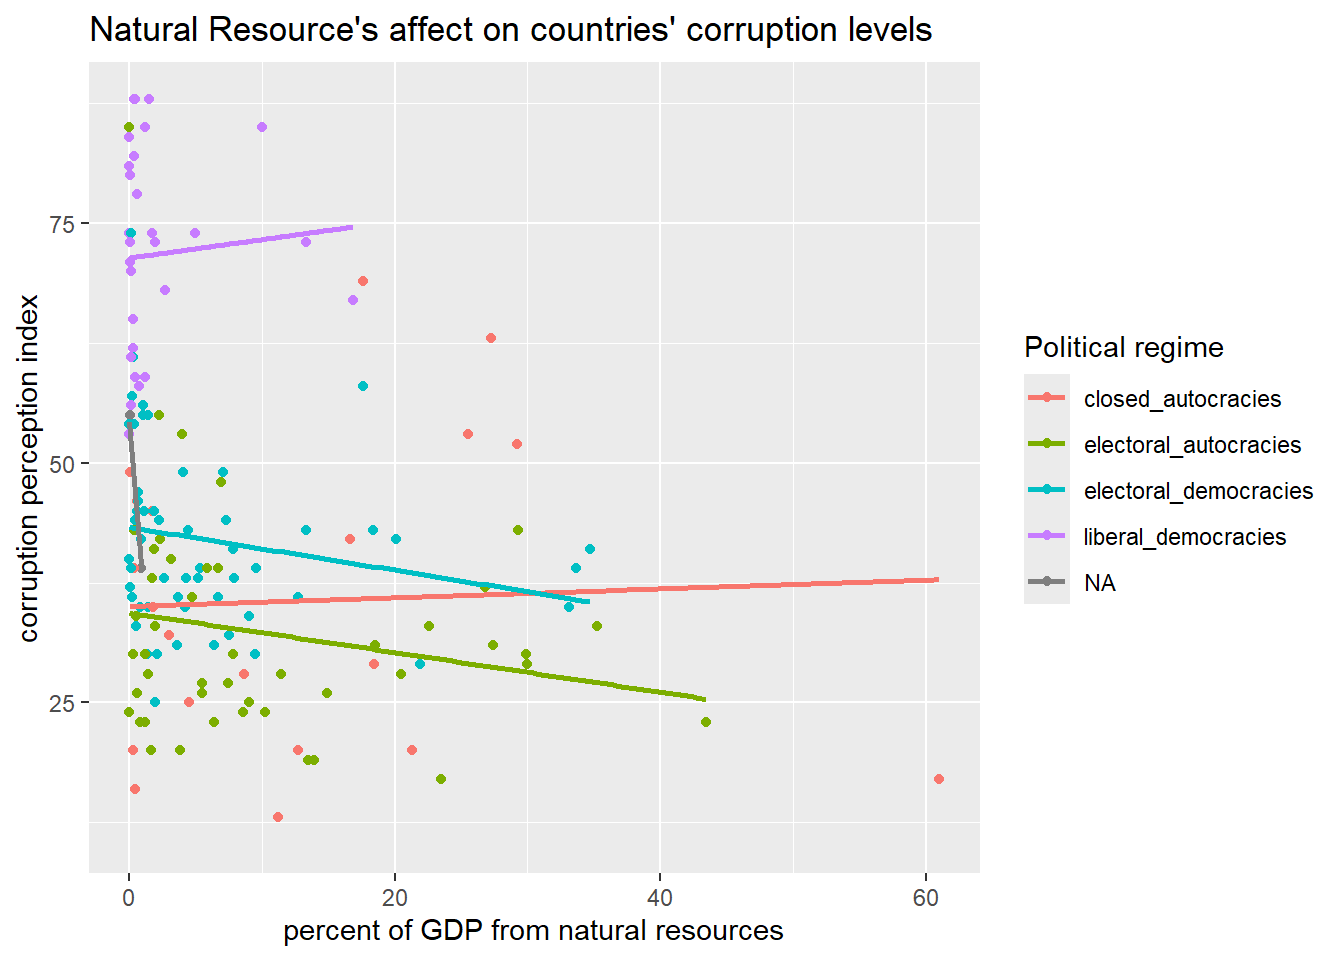
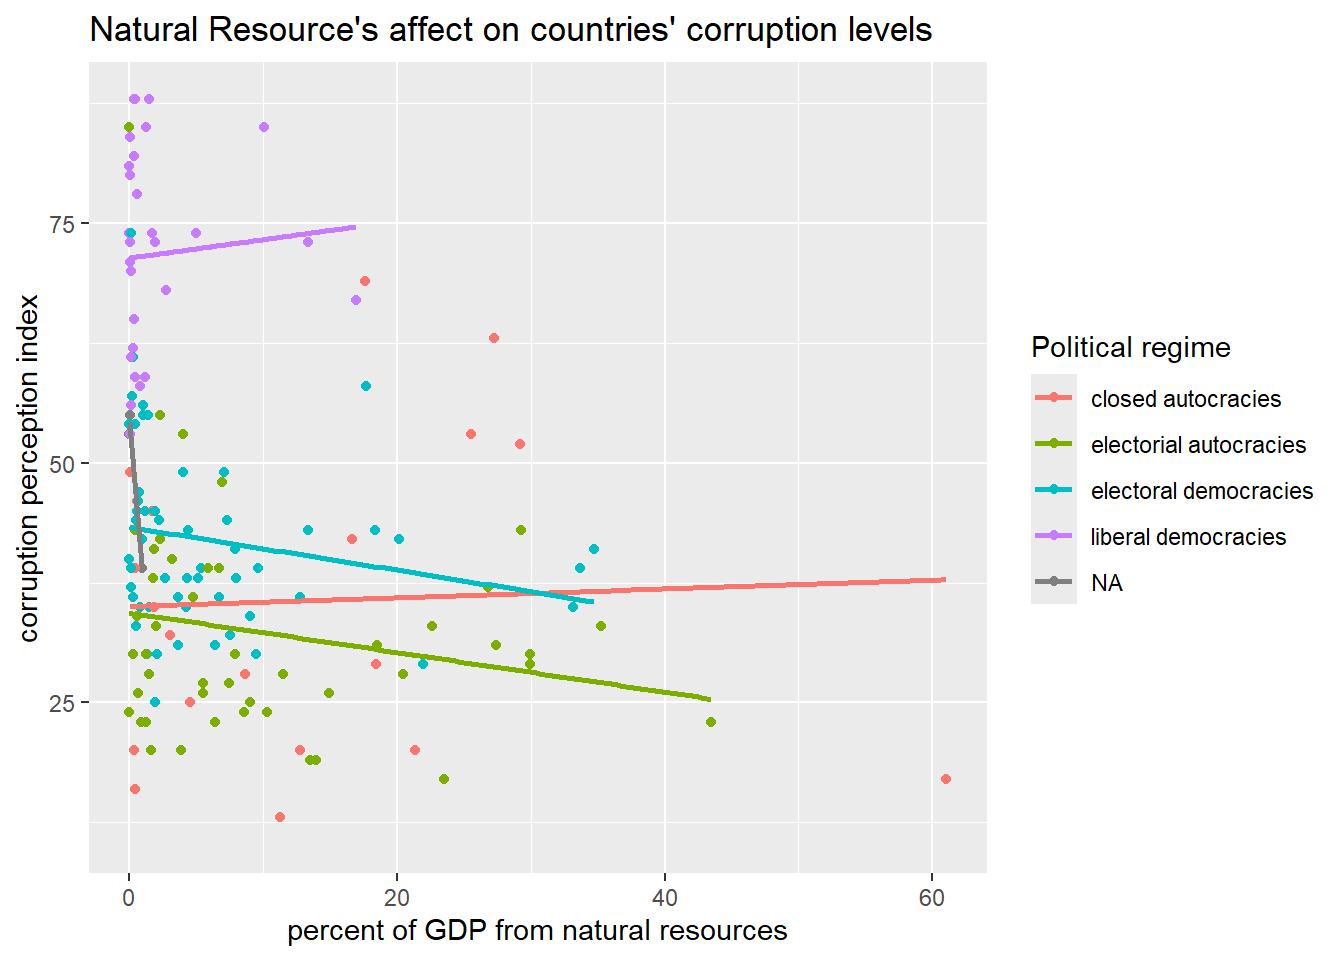
additional resids

diff --git a/natural_resource_conflict.html b/natural_resource_conflict.html
@@ -392,13 +392,14 @@ rents percent of gdp</td>
 <span id="cb10-7"><a href="#cb10-7" aria-hidden="true" tabindex="-1"></a>  <span class="fu">theme_grey</span>() <span class="sc">+</span></span>
 <span id="cb10-8"><a href="#cb10-8" aria-hidden="true" tabindex="-1"></a>  <span class="fu">geom_smooth</span>(<span class="at">formula =</span> y <span class="sc">~</span> x,</span>
 <span id="cb10-9"><a href="#cb10-9" aria-hidden="true" tabindex="-1"></a>              <span class="at">se =</span> <span class="cn">FALSE</span>,</span>
-<span id="cb10-10"><a href="#cb10-10" aria-hidden="true" tabindex="-1"></a>              <span class="at">method =</span> lm)</span>
-<span id="cb10-11"><a href="#cb10-11" aria-hidden="true" tabindex="-1"></a></span>
-<span id="cb10-12"><a href="#cb10-12" aria-hidden="true" tabindex="-1"></a><span class="fu">print</span>(regime_plot)</span>
-<span id="cb10-13"><a href="#cb10-13" aria-hidden="true" tabindex="-1"></a><span class="do">## Warning: Removed 25 rows containing non-finite outside the scale range</span></span>
-<span id="cb10-14"><a href="#cb10-14" aria-hidden="true" tabindex="-1"></a><span class="do">## (`stat_smooth()`).</span></span>
-<span id="cb10-15"><a href="#cb10-15" aria-hidden="true" tabindex="-1"></a><span class="do">## Warning: Removed 25 rows containing missing values or values outside the scale range</span></span>
-<span id="cb10-16"><a href="#cb10-16" aria-hidden="true" tabindex="-1"></a><span class="do">## (`geom_point()`).</span></span></code><button title="Copy to Clipboard" class="code-copy-button"><i class="bi"></i></button></pre></div>
+<span id="cb10-10"><a href="#cb10-10" aria-hidden="true" tabindex="-1"></a>              <span class="at">method =</span> lm) <span class="sc">+</span></span>
+<span id="cb10-11"><a href="#cb10-11" aria-hidden="true" tabindex="-1"></a>  <span class="fu">scale_color_hue</span>(<span class="at">labels =</span> <span class="fu">c</span>(<span class="st">"closed autocracies"</span>, <span class="st">"electorial autocracies"</span>, <span class="st">"electoral democracies"</span>, <span class="st">"liberal democracies"</span>))</span>
+<span id="cb10-12"><a href="#cb10-12" aria-hidden="true" tabindex="-1"></a></span>
+<span id="cb10-13"><a href="#cb10-13" aria-hidden="true" tabindex="-1"></a><span class="fu">print</span>(regime_plot)</span>
+<span id="cb10-14"><a href="#cb10-14" aria-hidden="true" tabindex="-1"></a><span class="do">## Warning: Removed 25 rows containing non-finite outside the scale range</span></span>
+<span id="cb10-15"><a href="#cb10-15" aria-hidden="true" tabindex="-1"></a><span class="do">## (`stat_smooth()`).</span></span>
+<span id="cb10-16"><a href="#cb10-16" aria-hidden="true" tabindex="-1"></a><span class="do">## Warning: Removed 25 rows containing missing values or values outside the scale range</span></span>
+<span id="cb10-17"><a href="#cb10-17" aria-hidden="true" tabindex="-1"></a><span class="do">## (`geom_point()`).</span></span></code><button title="Copy to Clipboard" class="code-copy-button"><i class="bi"></i></button></pre></div>
 </details>
 <div class="cell-output-display">
 <div>
@@ -515,7 +516,45 @@ political regime<br>
 <p>Our results are overall inconclusive. Our first linear model just looked at the percent of GDP from natural resources. There was no an obvious correlation from just looking at the data points on the graph, but our line of best fit revealed a negative slope, revealing that as the percent of GDP goes up, the corruption also goes up (a lower index number = more corruption). Although these results were statistically significant, the adjusted R squared value revealed that it only explained about nine percent of the corruption levels in countries around the world.</p>
 <p>My solution to the low R squared value was to add another variable, as it was quite likely we had omitted variable bias. I decided to add political regime type as our additional variable. I logically assumed that the regime type would have differing affects on the relationship. When I added in political regimes however, I saw that my results were no longer statistically significant.</p>
 <p>If I had more time I would have continued exploring more variables. Developed versus developing country, overall GDP amount, and economic systems would all be interesting to analyze in relation to corruption and natural resources. I am also skeptical that a linear model is truly the correct model to be using in this situation, as corruption is very complex and probably not a completely linear issue.</p>
-<p>https://www.sscnet.ucla.edu/polisci/faculty/ross/papers/working/Ross%20-%20Politics%20of%20the%20resource%20curse.pdf?form=MG0AV3</p>
+<p>Full acknowledgements:</p>
+<table class="caption-top table">
+<colgroup>
+<col style="width: 12%">
+<col style="width: 87%">
+</colgroup>
+<thead>
+<tr class="header">
+<th>Use:</th>
+<th>Citation:</th>
+</tr>
+</thead>
+<tbody>
+<tr class="odd">
+<td>Resource curse information</td>
+<td>Ross, M. L. (2013). The Politics of the Resource Curse: A Review. SSRN Electronic Journal. https://doi.org/10.2139/ssrn.2342668</td>
+</tr>
+<tr class="even">
+<td>Natural resources data</td>
+<td>World Development Indicators. The World Bank. (2015). Worldbank.org. https://wdi.worldbank.org/table/3.14#</td>
+</tr>
+<tr class="odd">
+<td>Corruption index data</td>
+<td>Transparency International. (2021). 2021 Corruptions Perceptions Index. Transparency.org. https://www.transparency.org/en/cpi/2021.</td>
+</tr>
+<tr class="even">
+<td>Political regime data</td>
+<td>Political regime. (n.d.). Our World in Data. https://ourworldindata.org/grapher/political-regime?time=2021</td>
+</tr>
+<tr class="odd">
+<td>Political regime metadata</td>
+<td>Herre, B. (2021, December 2). The “Regimes of the World” data: how do researchers identify which countries are democracies? Our World in Data. https://ourworldindata.org/regimes-of-the-world-data</td>
+</tr>
+<tr class="even">
+<td>Reference course materials</td>
+<td>Max Czapanskiy. EDS 222 Statistics for Environmental Data Science graduate course at the Bren School of Environmental Science and Management at UCSB</td>
+</tr>
+</tbody>
+</table>
 </section>
 </section>
 
